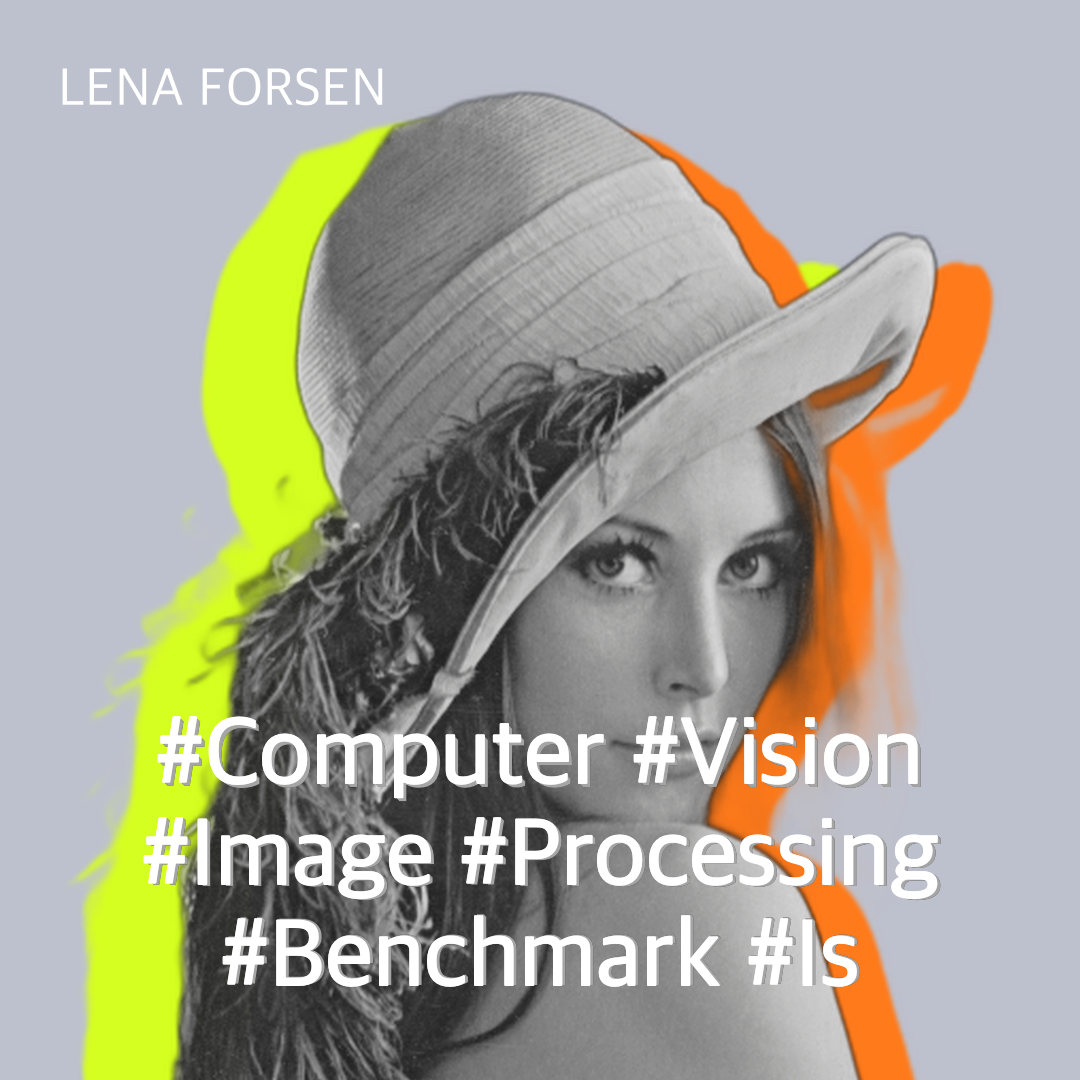
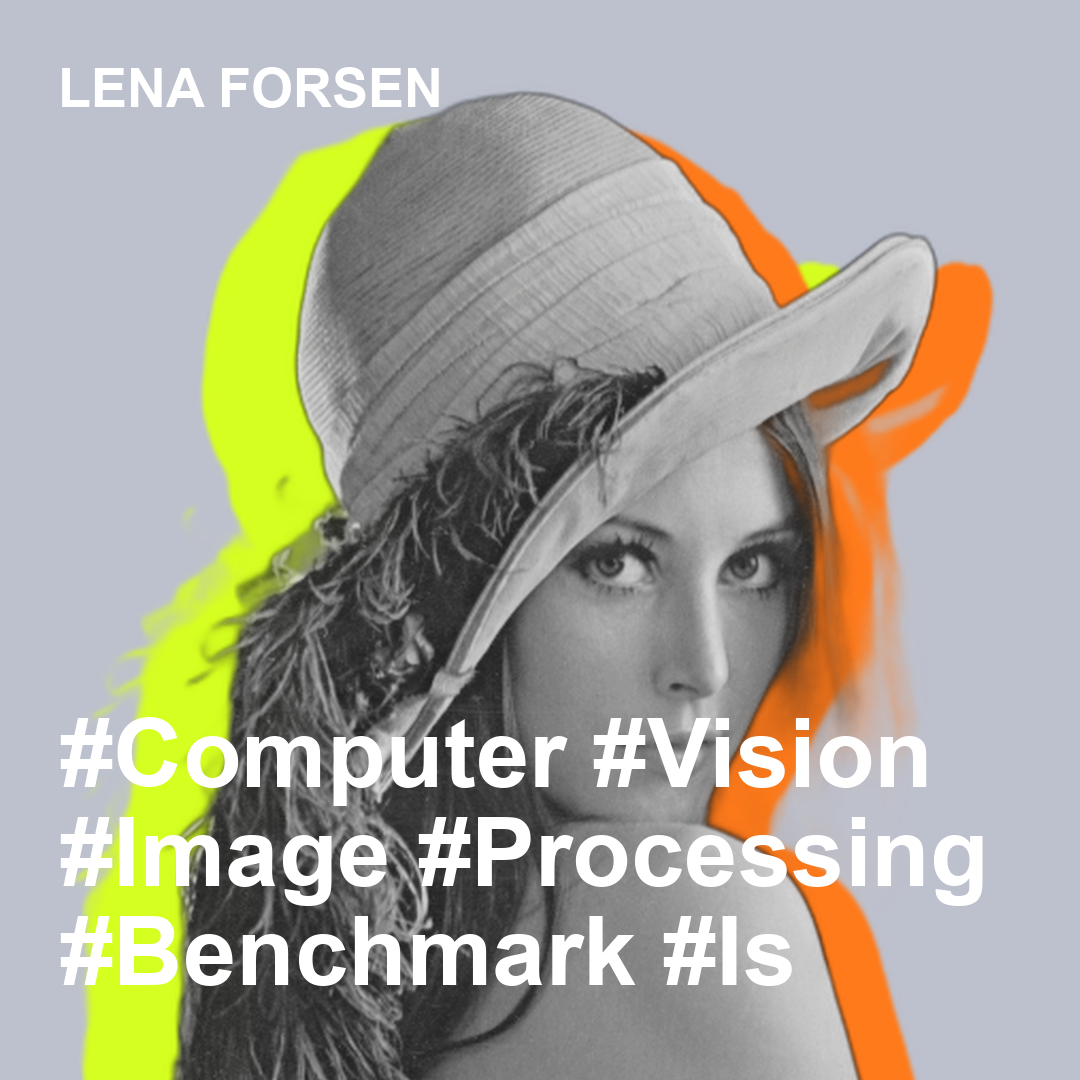
Use left-aligned sample poster text

Changed region(s): [[0.0611, 0.6417, 0.9167, 0.9167], [0.0611, 0.0611, 0.4278, 0.1222]]

diff --git a/app/services/poster_generator.py b/app/services/poster_generator.py
@@ -25,6 +25,19 @@ class PosterGenerator:
         self.image_processor = image_processor or ImageProcessor()
         self.hashtag_generator = hashtag_generator or HashtagGenerator()
         self.default_colors = ["#D6FF1F", "#FF7A1A"]
+        self.display_font_candidates = [
+            "/System/Library/Fonts/Supplemental/Arial Bold.ttf",
+            "/System/Library/Fonts/HelveticaNeue.ttc",
+            "/System/Library/Fonts/Supplemental/Helvetica.ttc",
+            "/System/Library/Fonts/Supplemental/DIN Condensed Bold.ttf",
+            "/System/Library/Fonts/Supplemental/Impact.ttf",
+            "/System/Library/Fonts/HelveticaNeue.ttc",
+        ]
+        self.name_font_candidates = [
+            "/System/Library/Fonts/Supplemental/Arial Bold.ttf",
+            "/System/Library/Fonts/HelveticaNeue.ttc",
+            "/System/Library/Fonts/AppleSDGothicNeo.ttc",
+        ]
 
     def generate(
         self,
@@ -101,33 +114,20 @@ class PosterGenerator:
         safe_box = (60, 700, canvas.width - 60, canvas.height - 40)
         text = self._arrange_hashtags(hashtags)
 
-        font = self._fit_font(draw, text, safe_box)
-        left, top, right, bottom = draw.multiline_textbbox((0, 0), text, font=font, spacing=12, align="center")
-        text_x = (canvas.width - (right - left)) // 2
+        font = self._fit_font(draw, text, safe_box, role="display")
+        text_x = safe_box[0]
         text_y = safe_box[1]
-        shadow_offsets = [(4, 4), (3, 3), (2, 2)]
-        for dx, dy in shadow_offsets:
-            draw.multiline_text(
-                (text_x + dx, text_y + dy),
-                text,
-                font=font,
-                fill=(0, 0, 0, 90),
-                spacing=12,
-                align="center",
-            )
         draw.multiline_text(
             (text_x, text_y),
             text,
             font=font,
             fill="white",
             spacing=12,
-            stroke_width=1,
-            stroke_fill=(255, 255, 255, 50),
-            align="center",
+            align="left",
         )
 
         display_name = (resume.english_name or resume.name).upper()
-        name_font = self._load_font(54)
+        name_font = self._load_font(54, role="name")
         draw.text((58, 58), display_name, font=name_font, fill=ImageColor.getrgb("white"))
 
     def _arrange_hashtags(self, hashtags: list[str]) -> str:
@@ -149,23 +149,22 @@ class PosterGenerator:
         draw: ImageDraw.ImageDraw,
         text: str,
         box: tuple[int, int, int, int],
+        role: str,
     ) -> ImageFont.FreeTypeFont | ImageFont.ImageFont:
         max_width = box[2] - box[0]
         max_height = box[3] - box[1]
         for size in range(96, 44, -4):
-            font = self._load_font(size)
-            left, top, right, bottom = draw.multiline_textbbox((0, 0), text, font=font, spacing=12, align="center")
+            font = self._load_font(size, role=role)
+            left, top, right, bottom = draw.multiline_textbbox((0, 0), text, font=font, spacing=12, align="left")
             if right - left <= max_width and bottom - top <= max_height:
                 return font
-        return self._load_font(44)
+        return self._load_font(44, role=role)
 
-    def _load_font(self, size: int) -> ImageFont.FreeTypeFont | ImageFont.ImageFont:
-        font_candidates = [
-            "/System/Library/Fonts/AppleSDGothicNeo.ttc",
-            "/System/Library/Fonts/Supplemental/Arial Bold.ttf",
-            "/System/Library/Fonts/Supplemental/Helvetica.ttc",
-            "/Library/Fonts/Arial Bold.ttf",
-        ]
+    def _load_font(self, size: int, role: str = "display") -> ImageFont.FreeTypeFont | ImageFont.ImageFont:
+        if role == "name":
+            font_candidates = self.name_font_candidates
+        else:
+            font_candidates = self.display_font_candidates
         for candidate in font_candidates:
             path = Path(candidate)
             if path.exists():
